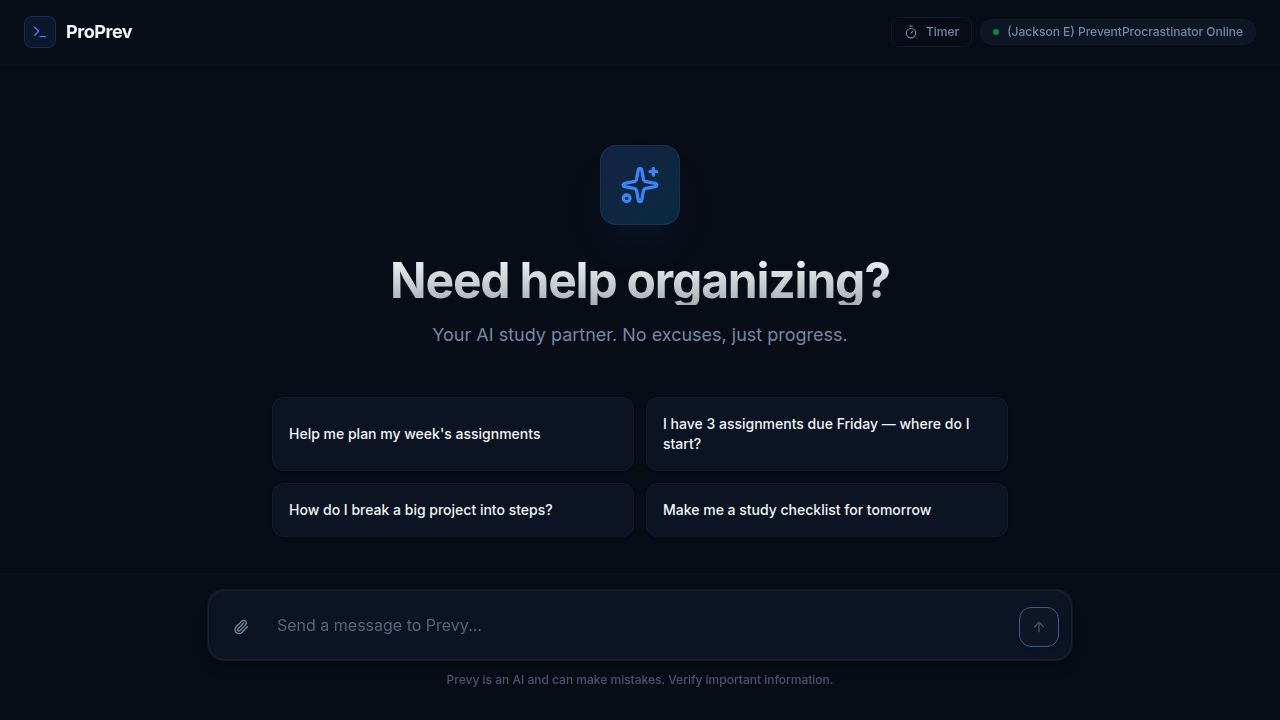
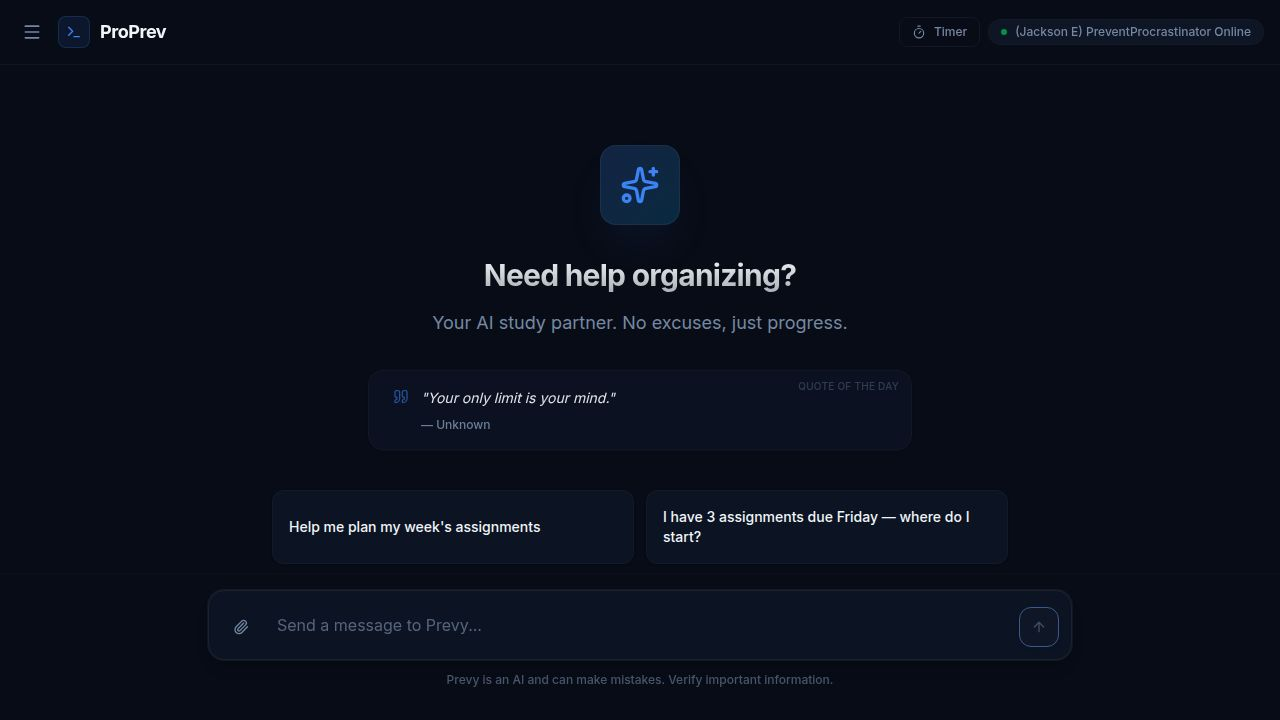
Add a daily motivational quote to the hero screen
Introduces a daily rotating motivational quote on the hero screen using a `useMemo` hook and a deterministic function based on the current date, with the quote displayed in a `motion.div` card.

Replit-Commit-Author: Agent
Replit-Commit-Session-Id: 88b5c4c0-15cc-42bb-9cdb-d99a032672c7
Replit-Commit-Checkpoint-Type: full_checkpoint
Replit-Commit-Event-Id: 2e2f770d-e3f1-45f8-923b-bc71162addb3
Replit-Commit-Screenshot-Url: https://storage.googleapis.com/screenshot-production-us-central1/139ec1a4-cf21-4c19-afae-47b6d73b33a3/88b5c4c0-15cc-42bb-9cdb-d99a032672c7/jZzWOcd
Replit-Helium-Checkpoint-Created: true

diff --git a/artifacts/proprev/src/App.tsx b/artifacts/proprev/src/App.tsx
@@ -1,4 +1,4 @@
-import { useEffect, useRef, useState, useCallback } from "react";
+import { useEffect, useRef, useState, useCallback, useMemo } from "react";
 import { Switch, Route, Router as WouterRouter } from "wouter";
 import { QueryClient, QueryClientProvider } from "@tanstack/react-query";
 import { Toaster } from "@/components/ui/toaster";
@@ -10,10 +10,54 @@ import { MessageBubble } from "@/components/chat/MessageBubble";
 import { ChatInput } from "@/components/chat/ChatInput";
 import { ConversationsSidebar } from "@/components/sidebar/ConversationsSidebar";
 import { Button } from "@/components/ui/button";
-import { Sparkles, Terminal, RotateCcw, Menu } from "lucide-react";
-import { AnimatePresence } from "framer-motion";
+import { Sparkles, Terminal, RotateCcw, Menu, Quote } from "lucide-react";
+import { motion, AnimatePresence } from "framer-motion";
 import { PomodoroTimer, TimerHeaderButton } from "@/components/timer/PomodoroTimer";
 import { SavedConversation } from "@/hooks/use-conversations";
+
+// ---------------------------------------------------------------------------
+// Daily motivational quote — rotates by day of year
+// ---------------------------------------------------------------------------
+const QUOTES = [
+  { text: "The secret of getting ahead is getting started.", author: "Mark Twain" },
+  { text: "You don't have to be great to start, but you have to start to be great.", author: "Zig Ziglar" },
+  { text: "Action is the foundational key to all success.", author: "Pablo Picasso" },
+  { text: "The future depends on what you do today.", author: "Mahatma Gandhi" },
+  { text: "Small daily improvements over time lead to stunning results.", author: "Robin Sharma" },
+  { text: "Don't watch the clock; do what it does. Keep going.", author: "Sam Levenson" },
+  { text: "It always seems impossible until it's done.", author: "Nelson Mandela" },
+  { text: "The only way to do great work is to love what you do.", author: "Steve Jobs" },
+  { text: "Believe you can and you're halfway there.", author: "Theodore Roosevelt" },
+  { text: "Success is the sum of small efforts repeated day in and day out.", author: "Robert Collier" },
+  { text: "Push yourself, because no one else is going to do it for you.", author: "Unknown" },
+  { text: "Great things never come from comfort zones.", author: "Unknown" },
+  { text: "Dream it. Wish it. Do it.", author: "Unknown" },
+  { text: "Hard work beats talent when talent doesn't work hard.", author: "Tim Notke" },
+  { text: "Procrastination is the thief of time.", author: "Edward Young" },
+  { text: "You are capable of more than you know.", author: "Unknown" },
+  { text: "Start where you are. Use what you have. Do what you can.", author: "Arthur Ashe" },
+  { text: "Every expert was once a beginner.", author: "Helen Hayes" },
+  { text: "Discipline is the bridge between goals and accomplishment.", author: "Jim Rohn" },
+  { text: "Focus on being productive instead of busy.", author: "Tim Ferriss" },
+  { text: "The harder you work for something, the greater you'll feel when you achieve it.", author: "Unknown" },
+  { text: "Don't stop when you're tired. Stop when you're done.", author: "Unknown" },
+  { text: "You've got what it takes, but it will take everything you've got.", author: "Unknown" },
+  { text: "Success doesn't come to you — you go to it.", author: "Marva Collins" },
+  { text: "A little progress each day adds up to big results.", author: "Satya Nani" },
+  { text: "The pain of discipline is far less than the pain of regret.", author: "Unknown" },
+  { text: "Your only limit is your mind.", author: "Unknown" },
+  { text: "Stay focused and never give up.", author: "Unknown" },
+  { text: "One day or day one — you decide.", author: "Unknown" },
+  { text: "Make each day your masterpiece.", author: "John Wooden" },
+];
+
+function getDailyQuote() {
+  const now = new Date();
+  const start = new Date(now.getFullYear(), 0, 0);
+  const diff = now.getTime() - start.getTime();
+  const dayOfYear = Math.floor(diff / 86400000);
+  return QUOTES[dayOfYear % QUOTES.length];
+}
 
 const queryClient = new QueryClient();
 
@@ -32,6 +76,8 @@ function Chat() {
   } = useChat();
 
   const { conversations, saveConversation, deleteConversation } = useConversations();
+
+  const dailyQuote = useMemo(() => getDailyQuote(), []);
 
   const bottomRef = useRef<HTMLDivElement>(null);
 
@@ -180,9 +226,32 @@ function Chat() {
             <h1 className="text-2xl md:text-3xl font-bold text-foreground mb-4 text-center tracking-tight bg-gradient-to-b from-foreground to-foreground/70 bg-clip-text text-transparent">
               {welcomeMessage}
             </h1>
-            <p className="text-lg text-muted-foreground max-w-lg text-center mb-12">
+            <p className="text-lg text-muted-foreground max-w-lg text-center mb-8">
               Your AI study partner. No excuses, just progress.
             </p>
+
+            {/* Daily motivational quote */}
+            <motion.div
+              initial={{ opacity: 0, y: 8 }}
+              animate={{ opacity: 1, y: 0 }}
+              transition={{ delay: 0.2, duration: 0.5 }}
+              className="w-full max-w-xl px-4 mb-10"
+            >
+              <div className="relative rounded-2xl bg-card border border-border/50 px-6 py-4 shadow-sm flex items-start gap-3">
+                <Quote className="h-4 w-4 text-primary/60 shrink-0 mt-0.5" />
+                <div className="min-w-0">
+                  <p className="text-[14px] text-card-foreground leading-relaxed italic">
+                    "{dailyQuote.text}"
+                  </p>
+                  <p className="text-[12px] text-muted-foreground mt-1.5 font-medium">
+                    — {dailyQuote.author}
+                  </p>
+                </div>
+                <span className="absolute top-2 right-3 text-[10px] text-muted-foreground/40 font-medium tracking-wide uppercase">
+                  Quote of the day
+                </span>
+              </div>
+            </motion.div>
 
             <div className="grid grid-cols-1 md:grid-cols-2 gap-3 w-full max-w-3xl px-4">
               {starterQuestions.map((q, idx) => (